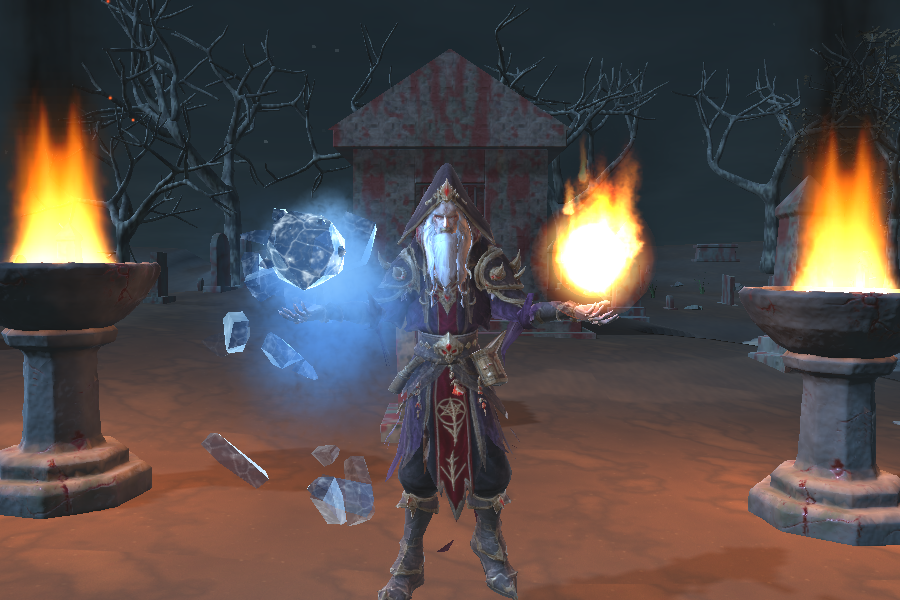
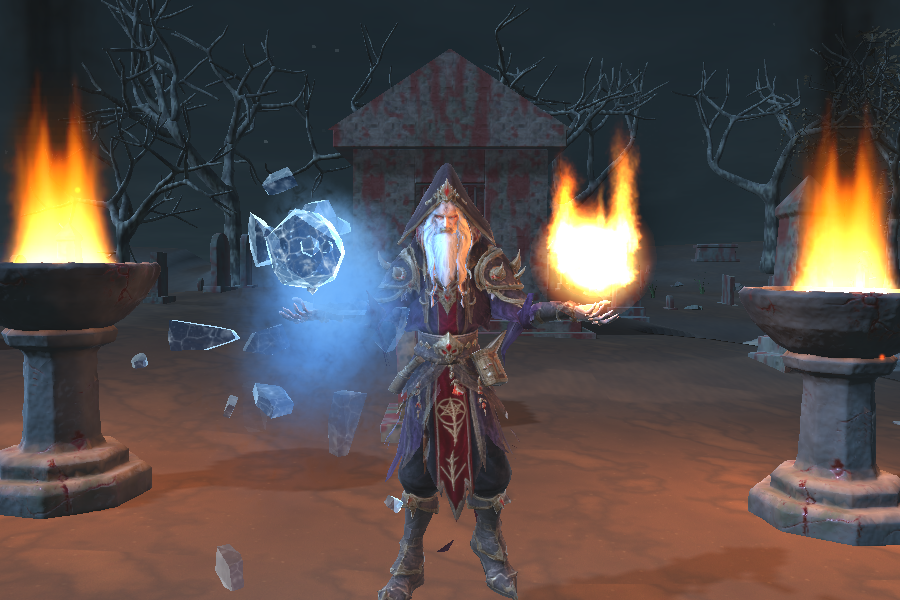
Man chinh: lua tren qua cau lua o tay BAM QUANH qua cau, khong con ngon lua tach ra bay lo lung (nguoi dung; chi man chinh, trong tran giu duoi lua) - Sparks + Flames mo phong cuc bo, khong van toc / boc len / nhieu, goc lua tren mat cau 0,85 r; menu 101c do vi tri that: 19 ngon lua, goc xa nhat 0,8

diff --git a/Assets/Scripts/UI/TuTheTrungBay.cs b/Assets/Scripts/UI/TuTheTrungBay.cs
@@ -29,6 +29,9 @@ public class TuTheTrungBay : MonoBehaviour
     /// - de nguyen thi nhuom cam ca nen dat man chinh (anh menu 101c lan dau); o day chi can hat sang len tay, ao va mat dat quanh chan.</summary>
     public const float TamDenCau = 2.6f, DoSangDenCau = 2.2f;
 
+    /// <summary>Goc ngon lua nam tren mat cau ban kinh BanKinhCau x BanKinhGocLua (sat mat loi lua sang).</summary>
+    public const float BanKinhGocLua = 0.85f;
+
     /// <summary>Nhan vat vao tu the trong bao lau (giay).</summary>
     public const float GiayVaoTuThe = 0.8f;
 
@@ -67,6 +70,21 @@ public class TuTheTrungBay : MonoBehaviour
         VfxFactory.TanLuaThanhNgonLua(goLua.transform, BanKinhCau);
         var loi = goLua.transform.Find("Flames");
         if (loi != null) VfxFactory.DoiThanhNgonLuaThat(loi.GetComponent<ParticleSystem>(), BanKinhCau * 2.6f, BanKinhCau * 4.2f, 34f, 0.12f, 0.45f);
+        // LUA BAM QUANH QUA CAU (nguoi dung 04/10/2026: "cac vet lua phai bao quanh lay qua cau lua, khong duoc bay lo lung o tren khong"
+        // - chon chi qua cau tren tay; trong tran giu duoi lua khi bay): moi ngon lua MOC TU MAT QUA CAU va DI THEO no - mo phong CUC BO
+        // (qua cau nhap nho / nhan vat xoay thi lua khong bi bo lai), khong van toc, khong boc len, khong nhieu day trot.
+        foreach (var ten in new[] { "Sparks", "Flames" })
+        {
+            var t = goLua.transform.Find(ten);
+            var ps = t != null ? t.GetComponent<ParticleSystem>() : null;
+            if (ps == null) continue;
+            var m = ps.main;
+            m.simulationSpace = ParticleSystemSimulationSpace.Local;
+            m.startSpeed = 0f;
+            m.gravityModifier = 0f;
+            var sh = ps.shape; sh.shapeType = ParticleSystemShapeType.Sphere; sh.radius = BanKinhCau * BanKinhGocLua; sh.radiusThickness = 0f;
+            var nz = ps.noise; nz.enabled = false;
+        }
         foreach (var goCau in new[] { goLua, goBang })
             foreach (var lt in goCau.GetComponentsInChildren<Light>(true))
             {

diff --git a/Assets/Editor/ThuTayTrungBay.cs b/Assets/Editor/ThuTayTrungBay.cs
@@ -203,6 +203,24 @@ public static class ThuTayTrungBay
                     if (rr != null && rr.renderMode == ParticleSystemRenderMode.Billboard && tx != null && tx.name == "NgonLuaThat") ngonThat++;
                 }
                 sb.AppendLine("Lua tren tay: " + moTa);
+                // BAM QUANH QUA CAU: moi hat lua (goc ngon lua) phai nam sat mat qua cau, va dang ngung (khong troi di) - doc vi tri THAT
+                float xaMax = 0f, tocMax = 0f; int soHatLua = 0;
+                foreach (var ten in new[] { "Sparks", "Flames" })
+                {
+                    var t = lua.transform.Find(ten); var ps = t != null ? t.GetComponent<ParticleSystem>() : null;
+                    if (ps == null) continue;
+                    var arr = new ParticleSystem.Particle[ps.particleCount]; int n = ps.GetParticles(arr);
+                    bool cucBo = ps.main.simulationSpace == ParticleSystemSimulationSpace.Local;
+                    for (int i = 0; i < n; i++)
+                    {
+                        Vector3 p = cucBo ? t.TransformPoint(arr[i].position) : arr[i].position;
+                        xaMax = Mathf.Max(xaMax, Vector3.Distance(p, lua.transform.position));
+                        tocMax = Mathf.Max(tocMax, arr[i].totalVelocity.magnitude); soHatLua++;
+                    }
+                }
+                sb.AppendLine(string.Format("Lua bam qua cau: {0} ngon lua, goc xa tam qua cau nhat {1:F3} m ({2:F2} ban kinh cau), toc do lon nhat {3:F3} m/s",
+                    soHatLua, xaMax, xaMax / TuTheTrungBay.BanKinhCau, tocMax));
+                kiem(soHatLua > 10 && xaMax <= TuTheTrungBay.BanKinhCau * 1.0f && tocMax < 0.05f, "ngon lua tach khoi qua cau, bay lo lung");
                 kiem(ngonThat == 2, "tan lua / lua loi tren tay chua phai ngon lua that");
             }
             string anh = "PlayTestShots/tay_trungbay_man_chinh.png";

diff --git a/HUONG-DAN.md b/HUONG-DAN.md
@@ -9122,6 +9122,10 @@ Blender dựng lại các vết lửa này cho thật giống ngọn lửa thậ
 - **Menu 102 mới** — ảnh một khung của menu 70 có ×2,9 điểm cháy trắng so với ảnh cũ, nên đo lại cho chắc: ba quả cầu lửa thật bay song song
   trên cao (A ngọn lửa thật / B tàn lửa cũ dựng lại bằng code / C không tàn lửa), mỗi quả một lớp + một máy quay đi theo nền đen, 20 khung × 3
   lượt: tổng sáng **×1,05** (B ×1,02) so với C, điểm cháy trắng **×1,00** cả ba — ảnh một khung chỉ là dao động, quả cầu không chói hơn.
+- **Cùng ngày, lửa trên tay phải BÁM QUANH quả cầu** (người dùng gửi ảnh: một ngọn lửa còn tách ra bay lơ lửng phía trên; chọn chỉ sửa quả cầu
+  trên tay — trong trận giữ đuôi lửa khi bay 17 m/s): `Sparks` + `Flames` trên tay mô phỏng **cục bộ** (đi theo quả cầu khi nhấp nhô / nhân vật
+  xoay), không vận tốc, không bốc lên, tắt nhiễu, gốc mọi ngọn lửa trên mặt cầu 0,85 bán kính. Menu 101c đo vị trí thật: 19 ngọn lửa, gốc xa tâm
+  nhất **0,85 bán kính**, tốc độ lớn nhất **0** — 0 lỗi.
 
 ### Màn chính: phù thuỷ ngửa hai tay nâng quả cầu lửa và quả cầu băng (04/10/2026)
 
